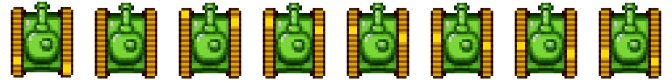
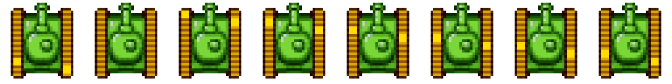
fixed sprite

diff --git a/scripts/Sprite.js b/scripts/Sprite.js
@@ -13,12 +13,15 @@ function Sprite(posX, posY, width, height, context, src)
 
 	this.update = function()
 	{
-		/*context.drawImage(this.srcImg, this.currFrame * this.width, 0, 
+		console.log(this.currFrame);
+		context.drawImage(this.srcImg, this.currFrame * this.width, 0, 
 						  this.width, this.height, this.posX, this.posY, 
-						  this.width, this.height);*/
+						  this.width, this.height);
 
-		if ((this.currFrame++) * this.width > this.srcImg.width)
+		if ((this.currFrame + 2) * this.width >= this.srcImg.width)
 			this.currFrame = 0;
+		else
+			this.currFrame++;
 	}
 
 	this.setPos = function(posX, posY)

diff --git a/scripts/main.js b/scripts/main.js
@@ -3,7 +3,7 @@ var cvsContext;
 var tanks = [];
 var keyPress;
 var keyMap = {};
-const TANKSIZE = 50;
+const TANKSIZE = 84;
 const BULLETSIZE = 4;
 const W = 87, D = 68    , S = 83    , A = 65    , SPACE = 32;
 const UP = 0, RIGHT = 90, DOWN = 180, LEFT = 270;
@@ -21,7 +21,7 @@ window.onload = function() {
   tanks[0] = new Tank(cvs.width/2,cvs.height/2,'blue', 0);
 
   //Update per time
-  var framesPerSecond = 30;
+  var framesPerSecond = 2;
   setInterval(update, 1000/framesPerSecond);
 }
 

diff --git a/scripts/Tank.js b/scripts/Tank.js
@@ -18,6 +18,8 @@ function Tank(IposX,IposY,Icolor){
     for(var i = 0;i < this.bullets.length;i++){
       this.bullets[i].update();
     }
+
+    //update sprites
     this.sprite.update();
   }
   //Move
@@ -37,6 +39,8 @@ function Tank(IposX,IposY,Icolor){
     } else if(Idirection == LEFT){
       this.posX += -moveAmt;
     }
+
+    this.sprite.setPos(this.posX, this.posY);
   }
   //Fire bullet; REMEMBER TO DELETE BULLETS
   this.fireBullet = function(){
